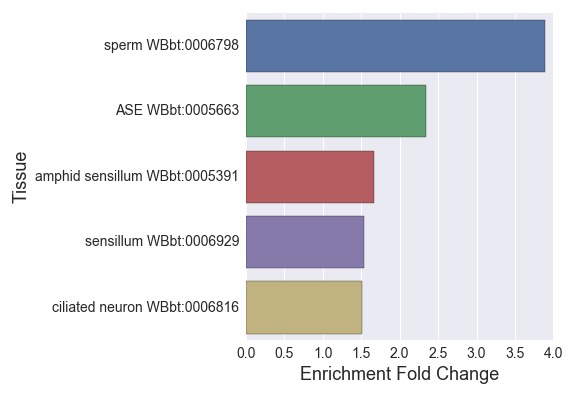
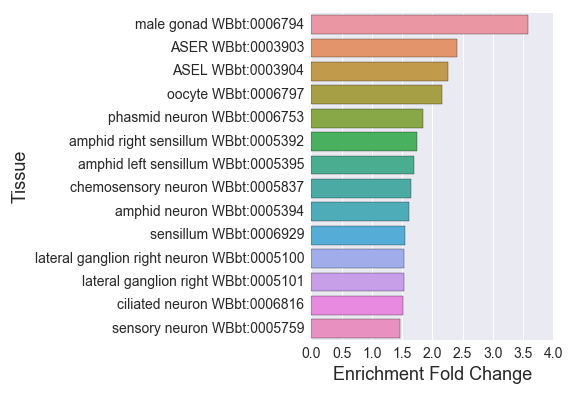
minor

diff --git a/hgf_benchmarking/src/Engelmann_Reanalysis.py b/hgf_benchmarking/src/Engelmann_Reanalysis.py
@@ -28,7 +28,7 @@ import os
 
 #tissue dictionary to use
 tissue_df= pd.read_csv('../input/WS252AnatomyDictionary/annot100.thresh1.methodavg.csv')
-
+tissue_df.drop('C. elegans Cell and Anatomy WBbt:0000100', axis= 1, inplace= True)
 #rna-seq datasets to reanalyze
 #Bacterial
 dfLum= pd.read_csv('../input/luminescens_Engelmann_2011.csv')
@@ -70,14 +70,6 @@ f= lambda x, y: (names.HumanReadable.isin(x[y]))
 g= lambda x, y: (names.GeneName.isin(x[y]))
 
 
-
-
-
-
-
-
-
-
 #==============================================================================
 #==============================================================================
 # # Engelmann Analysis
@@ -89,38 +81,46 @@ Ldf= [dfLum, dfMarc, dfFaec, dfHarp, dfCon]
 Ldirection= ['Infection_upregulated', 'Infection_downregulated']
 
 #direction specific
+n_genes= []
 for i, df in enumerate(Ldf):
     fname= Lnames[i]
     for direction in Ldirection:
         ind= g(df[df[direction] == 1.0], 'SequenceNameGene')
-#        ind2= f(df[df[direction]== 1.0])
         x= names[ind].WBID
+        
+        print('---------')
         print(fname + ' ' + direction)
         print('Number of genes submitted for analysis ', len(x))
         y= tissue_df[tissue_df.wbid.isin(x)].wbid.unique().shape[0]
         print('Number of genes used for analysis ', y)
         print('\n')
-        print('tissue_df')
-        print(tissue_df.head())
-        df_res= hgt.implement_hypergmt_enrichment_tool(fname + direction,x, tissue_df)
-        hgt.plotting_and_formatting(df_res, ytitle= '{0}, {1}'.format(fname, direction), 
-                                    dirGraphs= dirGraphs)
+        
+        df_res, unused= hgt.enrichment_analysis(x, tissue_df, show= False)
+#        hgt.plot_enrichment_results(df_res, title= '{0}, {1}'.format(fname, direction), 
+#                                    dirGraphs= dirGraphs)
+        n_genes.append(['{0}, {1}'.format(fname, direction), y, len(unused)])
+#        break
+#    break
+print('---------')
+print('---------')
+print('---------')
+print('---------')
 
 #direction agnostic
 for i, df in enumerate(Ldf):
     fname= Lnames[i]
     ind1= g(df[ df[Ldirection[0]] == 1.0],  'SequenceNameGene')
-#    ind2= f(df[ df[Ldirection[0]]== 1.0] )
     ind3= g(df[ df[Ldirection[1]] == 1.0],'SequenceNameGene' )
-#    ind4= f(df[ df[Ldirection[1]]== 1.0] )
     x= names[(ind1) | (ind3)].WBID
+    
     print(fname)
     print('Number of genes submitted for analysis ', len(x))
     y= tissue_df[tissue_df.wbid.isin(x)].wbid.unique().shape[0]
     print('Number of genes used for analysis ', y)
     print('\n')
-    df_res= hgt.implement_hypergmt_enrichment_tool(fname,x, tissue_df)
-    hgt.plotting_and_formatting(df_res, ytitle= '{0}'.format(fname), dirGraphs= dirGraphs)
+    
+    df_res, unused= hgt.enrichment_analysis(x, tissue_df, show= False)
+    hgt.plot_enrichment_results(df_res, title= '{0}'.format(fname), dirGraphs= dirGraphs)
 
 
 #==============================================================================
@@ -132,6 +132,15 @@ for i, df in enumerate(Ldf):
 sin_ps= ['pval_Bthu', 'pval_Saur', 'pval_Smar', 'pval_Xnem']
 sin_fs= ['log2FC_Bthu','log2FC_Saur','log2FC_Smar','log2FC_Xnem']
 
+print('---------')
+print('---------')
+print('---------')
+print('---------')
+print('Sinha Begins Here')
+print('---------')
+print('---------')
+print('---------')
+print('---------')
 
 #direction agnostic
 for pval in sin_ps:
@@ -146,10 +155,15 @@ for pval in sin_ps:
     y= tissue_df[tissue_df.wbid.isin(x)].wbid.unique().shape[0]
     print('Number of genes used for analysis ', y)
     print('\n')
-    df_res= hgt.implement_hypergmt_enrichment_tool(fname + direction,x, tissue_df)
-    hgt.plotting_and_formatting(df_res, 
-        ytitle= 'Sinha 2102, {0}'.format(fname), dirGraphs= dirGraphs)    
+    df_res, unused= hgt.enrichment_analysis(x, tissue_df, show= False)
+    hgt.plot_enrichment_results(df_res, 
+        title= 'Sinha 2102, {0}'.format(fname), dirGraphs= dirGraphs)    
 
+print('---------')
+print('---------')
+print('---------')
+print('---------')
+print('---------')
 
 #direction specific
 for i, pval in enumerate(sin_ps):
@@ -162,7 +176,6 @@ for i, pval in enumerate(sin_ps):
             
         sig = (dfSin[pval] < 0.05)
         fval= (i*dfSin[sin_fs[i]] > 0)
-        
         ind= g(dfSin[sig  & fval], 'Gene ID')
         ind2= f(dfSin[dfSin[pval] < 0.05], 'Gene ID')
         x= names[ind | ind2].WBID
@@ -172,9 +185,10 @@ for i, pval in enumerate(sin_ps):
         y= tissue_df[tissue_df.wbid.isin(x)].wbid.unique().shape[0]
         print('Number of genes used for analysis ', y)
         print('\n')
-        df_res= hgt.implement_hypergmt_enrichment_tool(fname + direction,x, tissue_df)
-        hgt.plotting_and_formatting(df_res, 
-            ytitle= 'Sinha, 2012 {0}'.format(fname), dirGraphs= dirGraphs)    
+        
+        df_res, unused= hgt.enrichment_analysis(x, tissue_df, show= False)
+        hgt.plot_enrichment_results(df_res, 
+            title= 'Sinha, 2012 {0}'.format(fname), dirGraphs= dirGraphs)    
 
  
 
